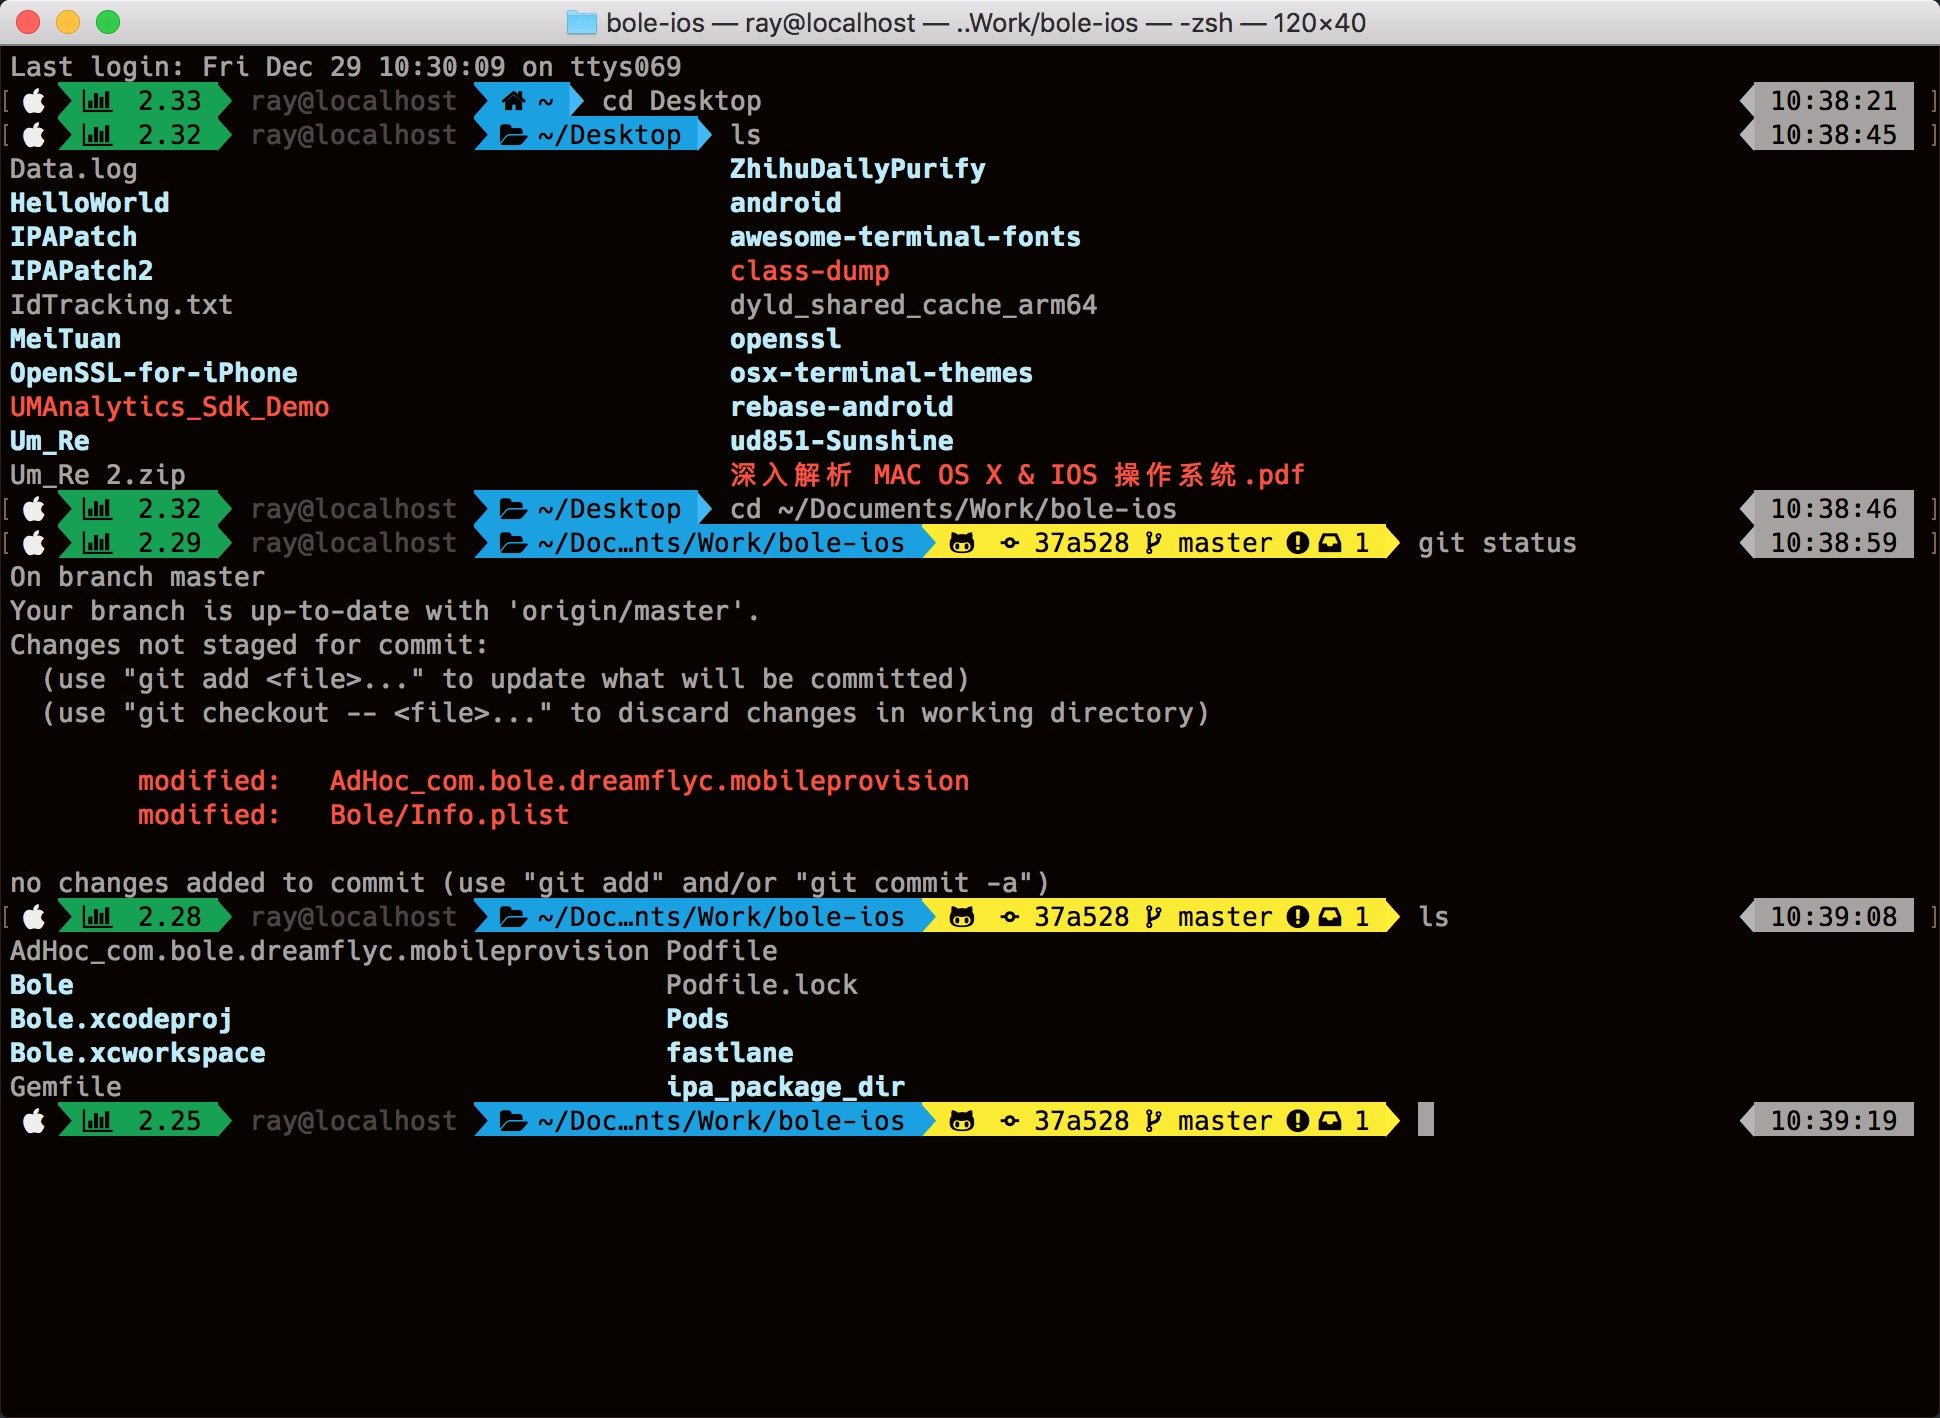
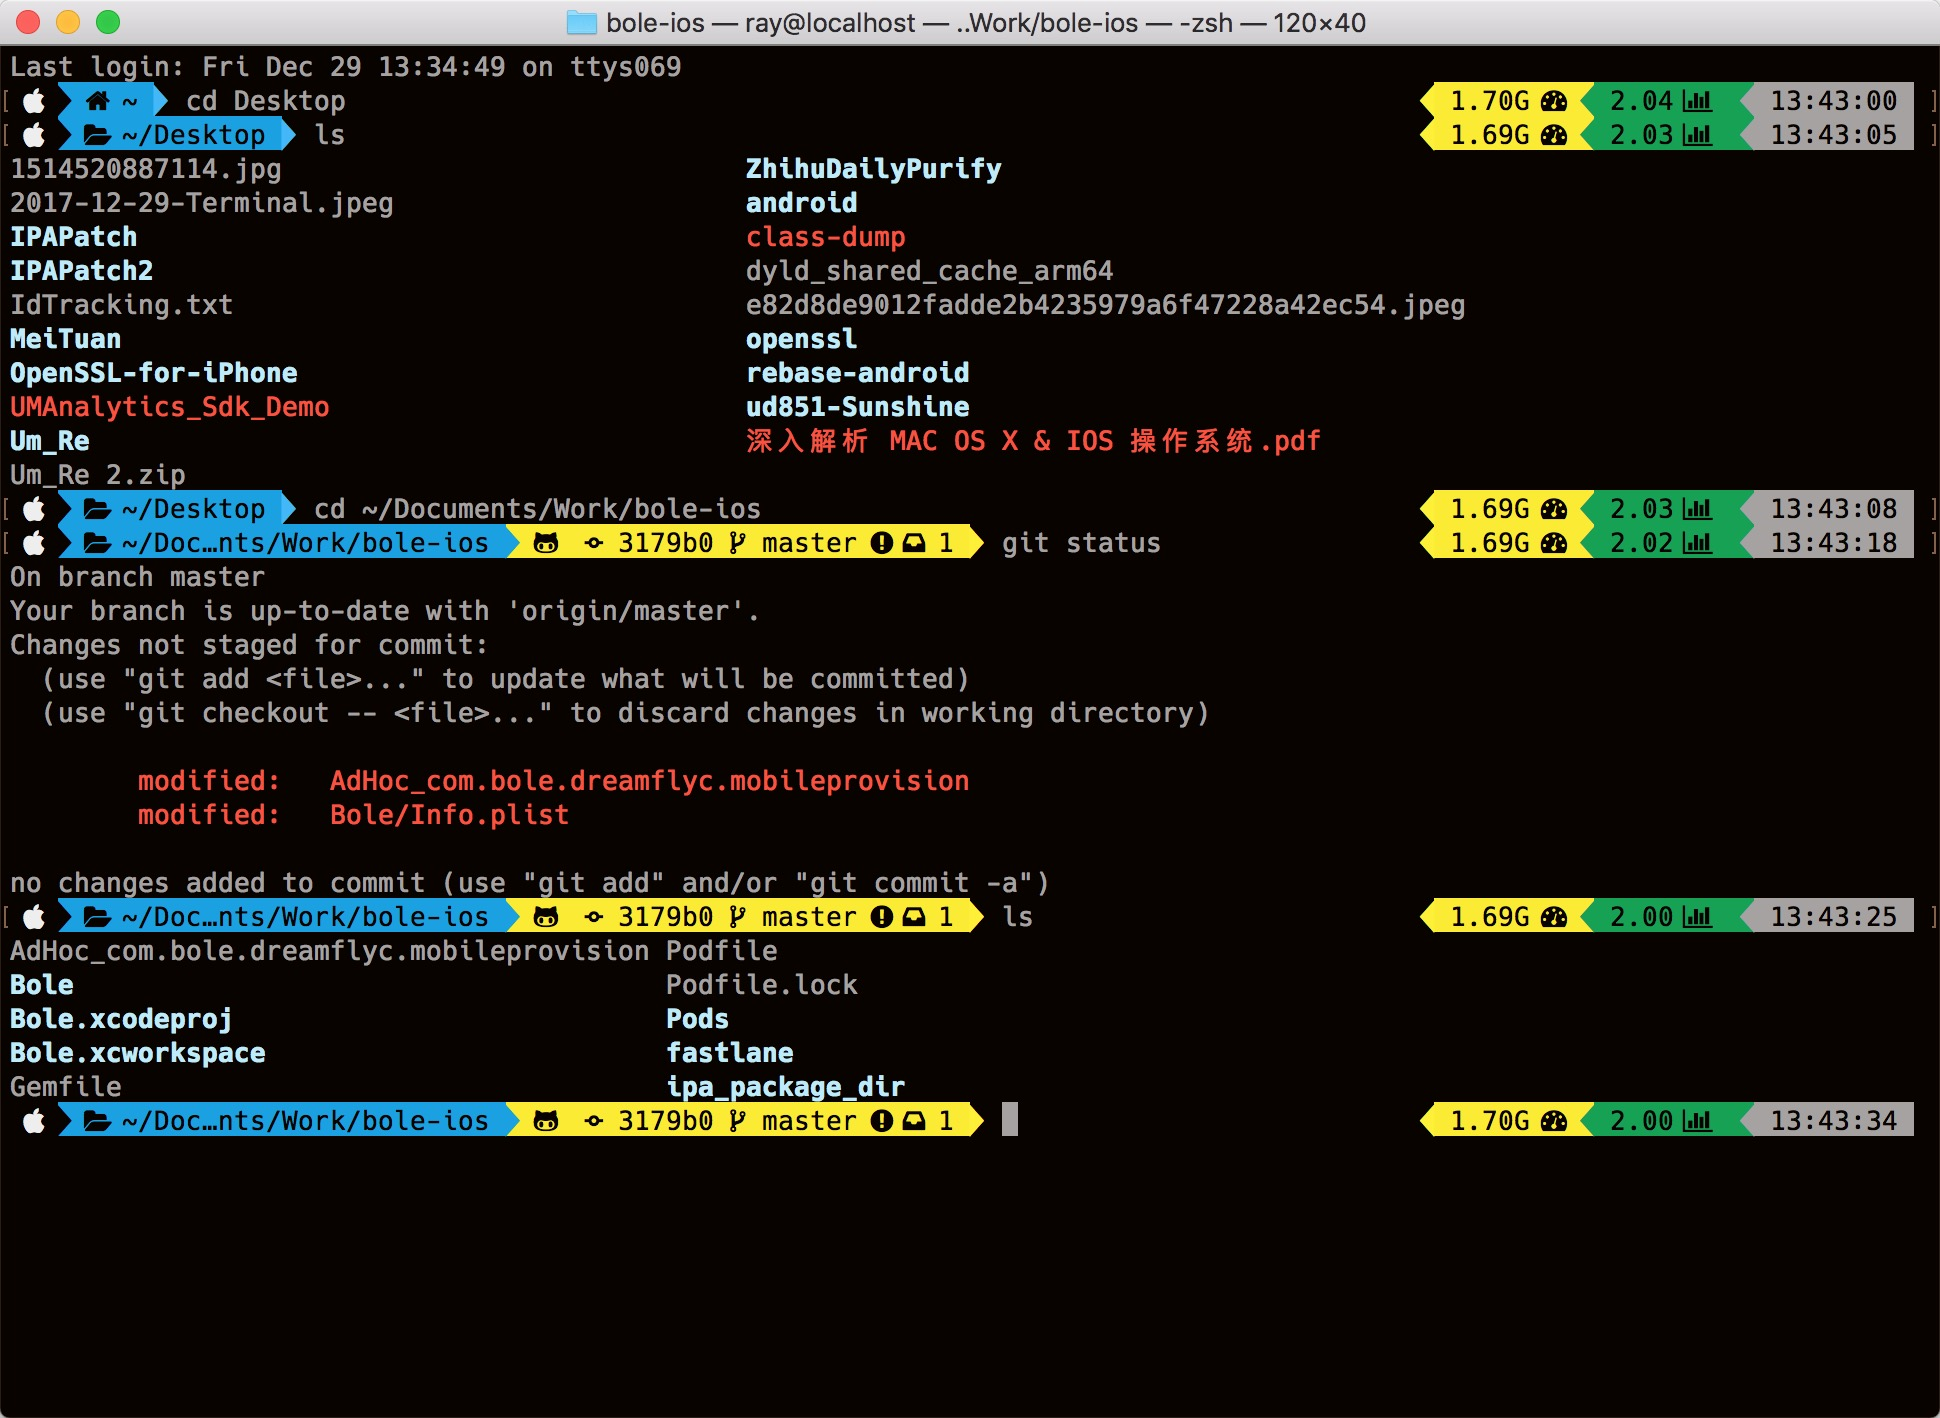
Update Blog.

diff --git a/source/_posts/2017-12-29-MacOS-Setup.md b/source/_posts/2017-12-29-MacOS-Setup.md
@@ -15,12 +15,12 @@ tags: Mac Software
 .zshrc Configiration
 
 ```
-POWERLEVEL9K_MODE='awesome-patched'
+POWERLEVEL9K_MODE='nerdfont-complete'
 POWERLEVEL9K_SHORTEN_DIR_LENGTH=3
 POWERLEVEL9K_SHORTEN_STRATEGY="truncate_middle"
 POWERLEVEL9K_STATUS_VERBOSE=false
-POWERLEVEL9K_LEFT_PROMPT_ELEMENTS=(status os_icon load context dir vcs)
-POWERLEVEL9K_RIGHT_PROMPT_ELEMENTS=(time)
+POWERLEVEL9K_LEFT_PROMPT_ELEMENTS=(status os_icon dir vcs)
+POWERLEVEL9K_RIGHT_PROMPT_ELEMENTS=(ram load time)
 POWERLEVEL9K_SHOW_CHANGESET=true
 POWERLEVEL9K_CHANGESET_HASH_LENGTH=6
 
